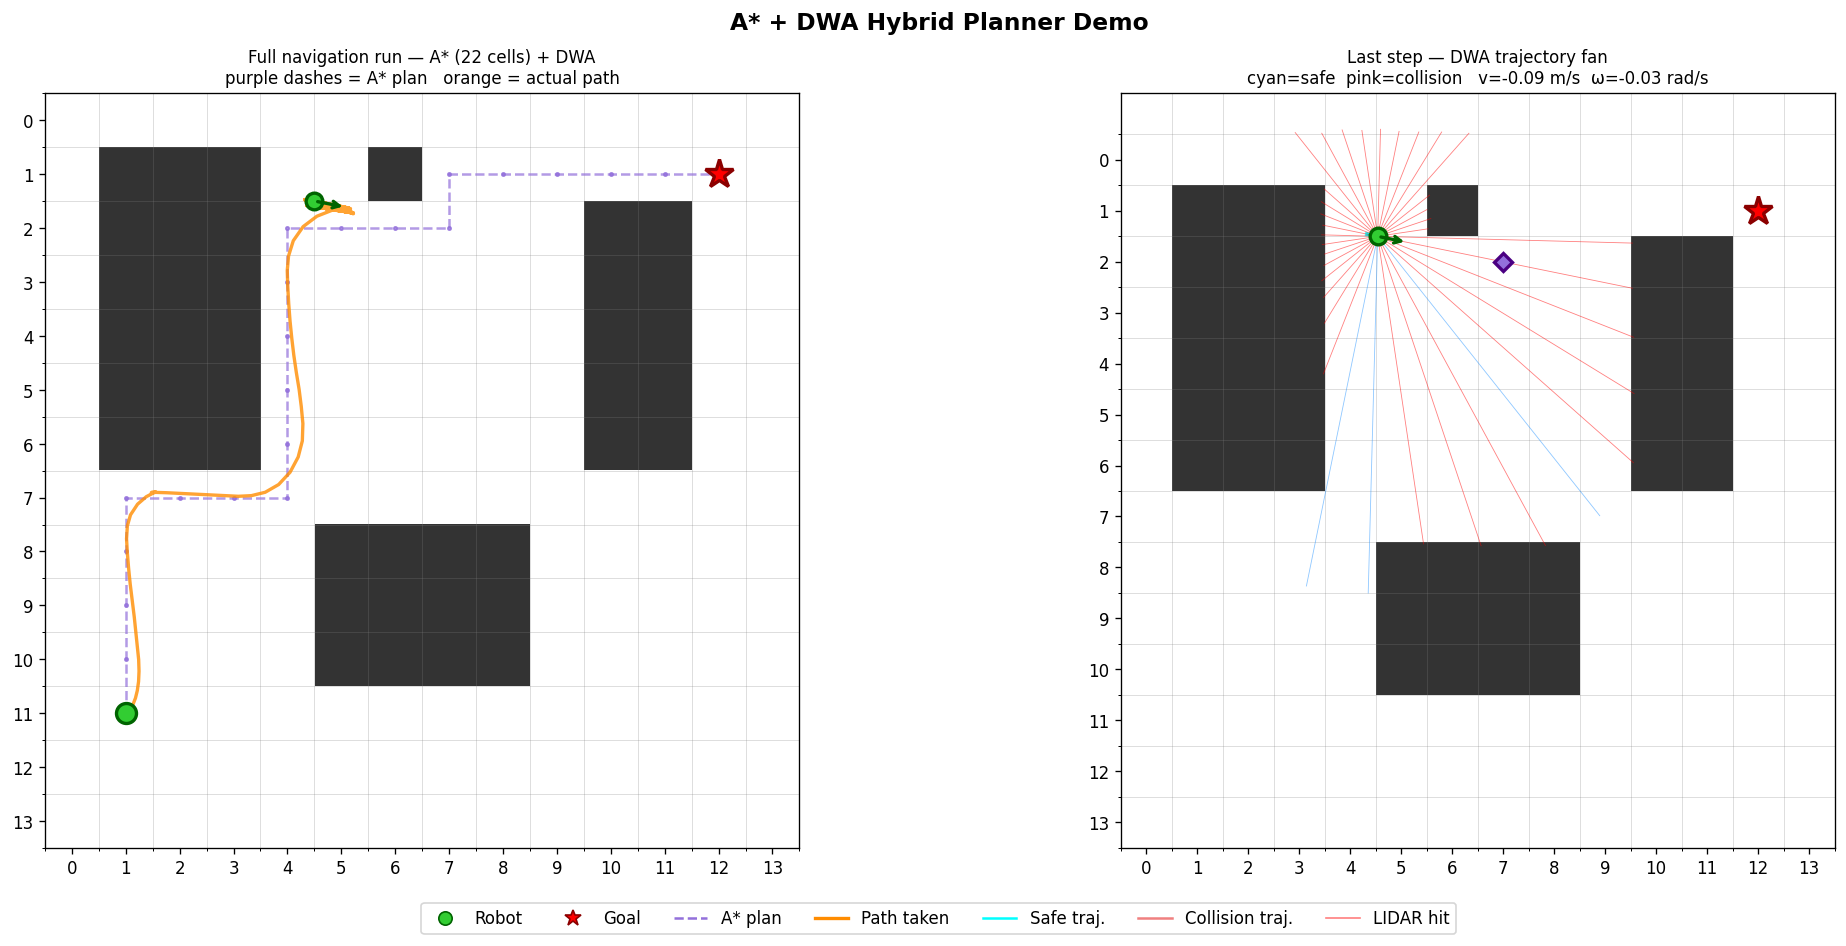
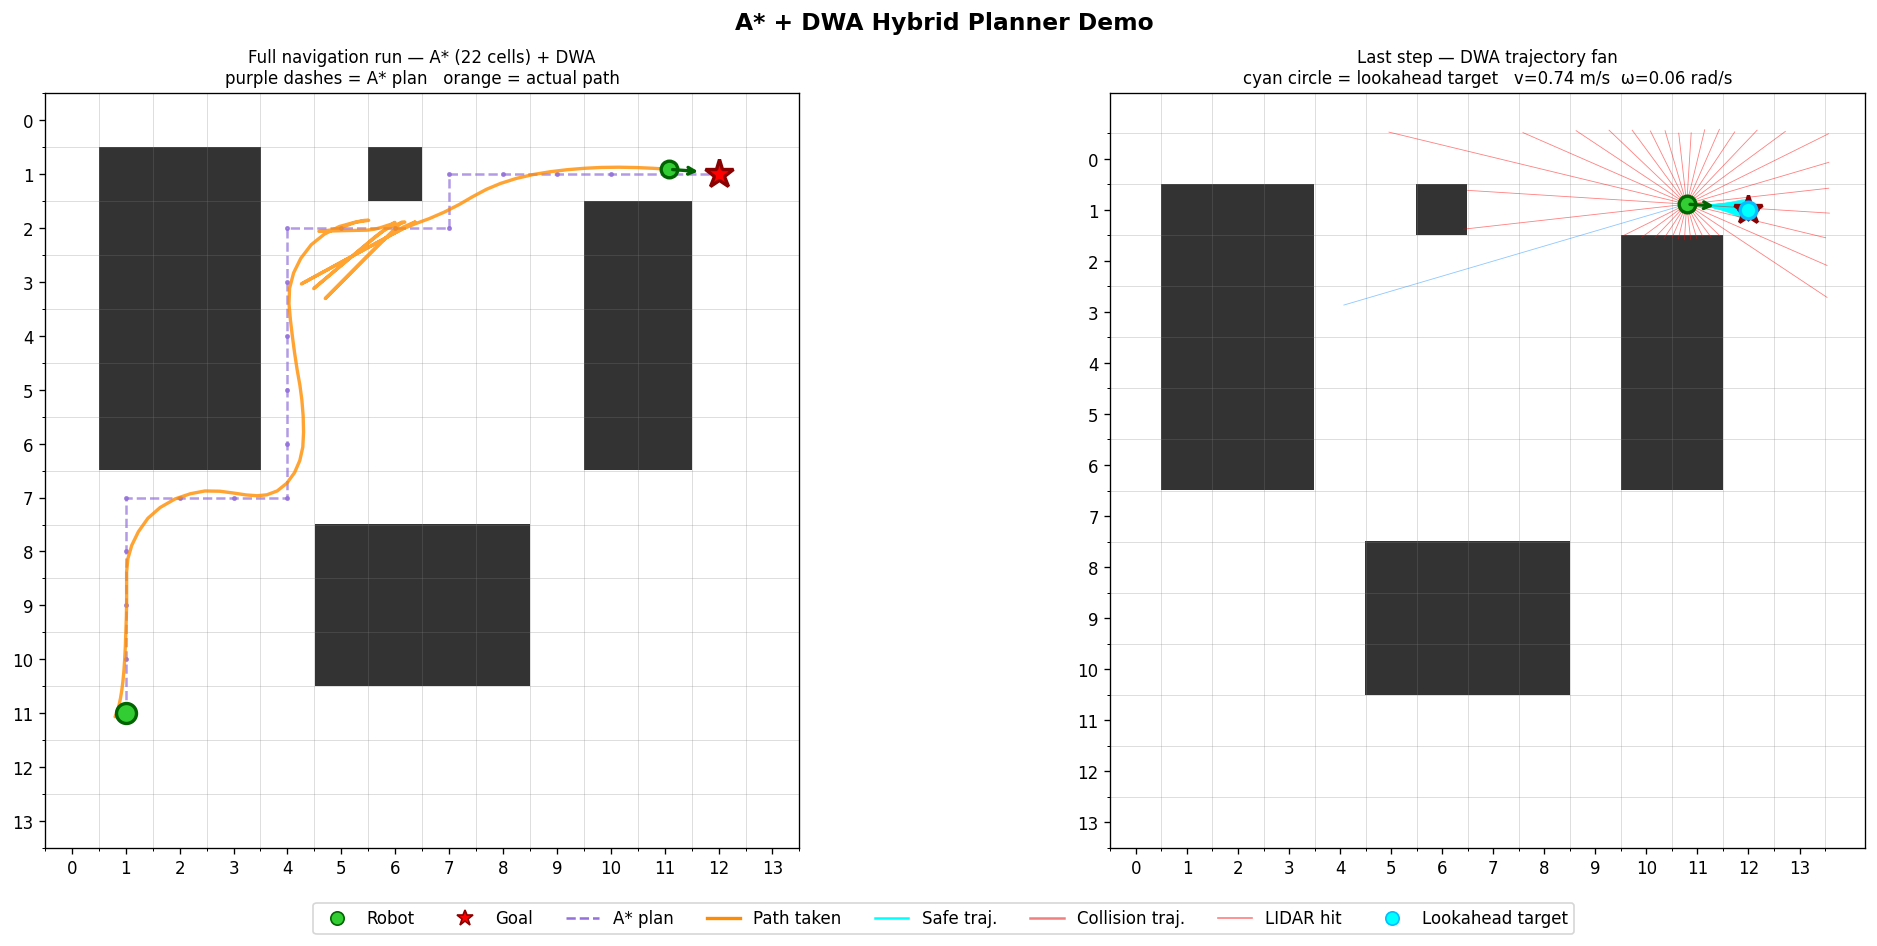
feat(demo): add lookahead waypoint targeting to DWA demo and tune DWA weights for better obstacle clearance behavior

diff --git a/examples/dwa_test.py b/examples/dwa_test.py
@@ -23,9 +23,10 @@ position.
 
 Control loop each step:
   1. LIDAR scans the environment
-  2. DWA selects best (v, ω) to reach the CURRENT A* waypoint
-  3. Robot executes the command
-  4. If within waypoint_threshold of current waypoint → advance to next one
+  2. find_lookahead_target() finds the furthest A* waypoint within lookahead_distance
+  3. DWA selects best (v, ω) to reach that lookahead point (not the immediate next cell)
+  4. Robot executes the command
+  5. If within waypoint_threshold of current waypoint → advance waypoint_index
 
 Run from project root:
     python examples/dwa_test.py
@@ -35,6 +36,7 @@ import sys
 sys.path.append('.')
 
 import math
+from typing import List, Tuple
 import numpy as np
 import matplotlib.pyplot as plt
 import matplotlib.patches as mpatches
@@ -136,6 +138,83 @@ def draw_astar_path(ax, waypoints):
 
 
 # ──────────────────────────────────────────────────────────────────────────────
+# Lookahead targeting
+# ──────────────────────────────────────────────────────────────────────────────
+
+def find_lookahead_target(
+    robot_x: float,
+    robot_y: float,
+    waypoints: List[Tuple[float, float]],
+    current_index: int,
+    lookahead_distance: float,
+) -> Tuple[float, float, int]:
+    """
+    Find the furthest A* waypoint that is still within lookahead_distance
+    of the robot's current position.
+
+    WHY lookahead instead of the immediate next waypoint?
+    -------------------------------------------------------
+    When DWA aims at the cell directly ahead (~0.5 m away), the heading
+    score gradient is very narrow: the robot must be almost perfectly aligned
+    with a single cell before DWA "sees" it. At corners, the robot is still
+    at speed when it reaches the corner cell and overshoots into the wall gap
+    before DWA can react.
+
+    Aiming 1–2 m ahead gives DWA a target it can "see" earlier. It begins
+    curving toward the corner long before reaching it → smoother arcs,
+    less corner-clipping.
+
+    Algorithm
+    ---------
+    1. Near-end guard: within the last 3 waypoints, return the final
+       waypoint directly so the robot homes in precisely on the goal.
+    2. Walk forward from current_index through all remaining waypoints.
+       Record the index of every waypoint whose distance from the robot
+       is ≤ lookahead_distance. No early break: the A* path may curve so
+       a later waypoint can re-enter the lookahead circle.
+    3. Fallback: if even waypoints[current_index] is beyond
+       lookahead_distance (pathological case), return it unchanged —
+       same behaviour as the previous one-step targeting.
+
+    Parameters
+    ----------
+    robot_x, robot_y : float
+        Current robot position in continuous coordinates (metres).
+    waypoints : list of (x, y) tuples
+        Full A* path converted to continuous coordinates.
+    current_index : int
+        The waypoint the robot is currently advancing toward.
+    lookahead_distance : float
+        How far ahead (metres) to search for a target waypoint.
+
+    Returns
+    -------
+    (target_x, target_y, furthest_index) : Tuple[float, float, int]
+        The lookahead target coordinates and its index in `waypoints`.
+        The caller can optionally use furthest_index to skip ahead in
+        waypoint_index, but the advancement logic is independent.
+    """
+    n = len(waypoints)
+
+    # Near-end guard: home in on the final waypoint precisely.
+    # Without this, lookahead could jump PAST the goal on the last few cells.
+    if current_index >= n - 3:
+        return (*waypoints[-1], n - 1)
+
+    # Walk forward, recording the furthest waypoint within lookahead_distance.
+    # Start with current_index as the fallback so we always return something.
+    furthest_index = current_index
+
+    for i in range(current_index, n):
+        wx, wy = waypoints[i]
+        dist = math.sqrt((wx - robot_x) ** 2 + (wy - robot_y) ** 2)
+        if dist <= lookahead_distance:
+            furthest_index = i   # keep pushing the lookahead forward
+
+    return (*waypoints[furthest_index], furthest_index)
+
+
+# ──────────────────────────────────────────────────────────────────────────────
 # Main simulation loop
 # ──────────────────────────────────────────────────────────────────────────────
 
@@ -169,7 +248,8 @@ def main():
     # Start at index 1: the robot is already at waypoints[0] (the start cell),
     # so we skip it and aim for the first real intermediate target immediately.
     waypoint_index = 1
-    waypoint_threshold = 0.6   # metres — how close = "waypoint reached"
+    waypoint_threshold  = 0.6   # metres — how close = "waypoint reached"
+    lookahead_distance  = 1.0   # metres — how far ahead to aim along the A* path
 
     print(f"Start:     {grid_to_continuous(start_row, start_col, CELL)}")
     print(f"Goal:      ({goal_x:.2f}, {goal_y:.2f})")
@@ -194,9 +274,10 @@ def main():
         v_samples=8,
         omega_samples=16,
         clearance_cap=1.5,
-        w_heading=1.5,
-        w_clearance=1.0,
-        w_velocity=0.5,
+        # More balanced
+        w_heading=0.7,   # robot steers toward waypoint but not rigidly
+        w_clearance=0.2,
+        w_velocity=0.1,  # speed is a small bonus, not a strong drive
     )
     print(dwa)
 
@@ -227,20 +308,26 @@ def main():
             print(f"✓ Goal reached in {step} steps!")
             break
 
-        # ── Pick the current A* waypoint as the DWA local target ───────
-        # Always aim at the current waypoint, not the distant final goal.
-        # This keeps DWA's trajectory horizon short and unobstructed.
+        # ── Waypoint for advancement check (unchanged logic) ───────────
         wp_x, wp_y = waypoints[waypoint_index]
+
+        # ── Lookahead target for DWA ────────────────────────────────────
+        # Instead of aiming at the immediate next cell (0.5 m away),
+        # look up to lookahead_distance ahead along the A* path so the
+        # robot starts turning corners earlier and clips less.
+        target_x, target_y, lookahead_idx = find_lookahead_target(
+            x, y, waypoints, waypoint_index, lookahead_distance
+        )
 
         # 1. Sense
         ranges    = lidar.scan(x, y, theta)
         endpoints = lidar.get_endpoints(x, y, theta, ranges)
         obstacles = endpoints[ranges < lidar.max_range]   # filter phantoms
 
-        # 2. Plan (DWA targets current waypoint)
+        # 2. Plan (DWA targets the lookahead point, not the immediate waypoint)
         v_cmd, omega_cmd, ok = dwa.compute_command(
             x, y, theta, v_cur, omega_cur,
-            wp_x, wp_y, obstacles,
+            target_x, target_y, obstacles,
         )
 
         if not ok:
@@ -253,17 +340,21 @@ def main():
         history.append((robot.x, robot.y))
 
         # ── Advance waypoint if we're close enough ─────────────────────
-        # Check AFTER moving so the new position is used for the distance.
+        # Advancement still uses the distance to waypoints[waypoint_index]
+        # (the immediate next cell), not the lookahead target. This keeps
+        # waypoint_index progressing steadily along the path.
         dist_to_wp = math.sqrt((robot.x - wp_x)**2 + (robot.y - wp_y)**2)
         if dist_to_wp < waypoint_threshold and waypoint_index < len(waypoints) - 1:
             waypoint_index += 1
 
-        # Store for the right panel close-up
-        last_scan_data = (x, y, theta, ranges, endpoints, obstacles, v_cmd, omega_cmd)
+        # Store for the right panel close-up (include lookahead target)
+        last_scan_data = (x, y, theta, ranges, endpoints, obstacles,
+                          v_cmd, omega_cmd, target_x, target_y)
 
         if step % 10 == 0:
             print(f"Step {step:3d}: pos=({x:.2f},{y:.2f})  "
                   f"wp={waypoint_index}/{len(waypoints)-1}  "
+                  f"la={lookahead_idx}  "
                   f"v={v_cmd:.2f}  ω={omega_cmd:.2f}  dist_goal={dist_to_goal:.2f}")
     else:
         print("Max steps reached without reaching goal.")
@@ -293,11 +384,11 @@ def main():
 
     # ── Right panel: last-step trajectory fan ──────────────────────────
     if last_scan_data:
-        lx, ly, lt, lranges, lendpoints, lobs, lv, lw = last_scan_data
+        lx, ly, lt, lranges, lendpoints, lobs, lv, lw, ltgt_x, ltgt_y = last_scan_data
         env.render(ax=ax_close, show_legend=False)
         ax_close.set_title(
             f"Last step — DWA trajectory fan\n"
-            f"cyan=safe  pink=collision   v={lv:.2f} m/s  ω={lw:.2f} rad/s",
+            f"cyan circle = lookahead target   v={lv:.2f} m/s  ω={lw:.2f} rad/s",
             fontsize=10,
         )
         draw_trajectories(ax_close, dwa, lx, ly, lt, v_cur, omega_cur, lobs)
@@ -305,11 +396,16 @@ def main():
         draw_robot(ax_close, lx, ly, lt)
         ax_close.plot(gx_p, gy_p, '*', color='red', markersize=18,
                       markeredgecolor='darkred', markeredgewidth=2, zorder=9)
-        # Show the current waypoint the robot was aiming at in the last step
+        # Show the current waypoint index marker (purple diamond)
         cwx, cwy = c2p(*waypoints[min(waypoint_index, len(waypoints) - 1)])
         ax_close.plot(cwx, cwy, 'D', color='mediumpurple', markersize=8,
-                      markeredgecolor='indigo', markeredgewidth=2, zorder=9,
-                      label='Current waypoint')
+                      markeredgecolor='indigo', markeredgewidth=2, zorder=9)
+        # Cyan circle: the lookahead target DWA was actually aiming at.
+        # This lets us verify the lookahead is jumping ahead of the current
+        # waypoint (it should be further along the path than the purple diamond).
+        ltx, lty = c2p(ltgt_x, ltgt_y)
+        ax_close.plot(ltx, lty, 'o', color='cyan', markersize=10,
+                      markeredgecolor='deepskyblue', markeredgewidth=2, zorder=12)
 
     # ── Legend ─────────────────────────────────────────────────────────
     legend_elements = [
@@ -323,8 +419,10 @@ def main():
         Line2D([0], [0], color='cyan', linewidth=1.5, label='Safe traj.'),
         Line2D([0], [0], color='lightcoral', linewidth=1.5, label='Collision traj.'),
         Line2D([0], [0], color='red', linewidth=1, alpha=0.5, label='LIDAR hit'),
+        Line2D([0], [0], marker='o', color='cyan', markersize=8,
+               markeredgecolor='deepskyblue', linestyle='None', label='Lookahead target'),
     ]
-    fig.legend(handles=legend_elements, loc='lower center', ncol=7,
+    fig.legend(handles=legend_elements, loc='lower center', ncol=8,
                fontsize=10, frameon=True, bbox_to_anchor=(0.5, 0.01))
 
     plt.tight_layout(rect=[0, 0.06, 1, 1])
